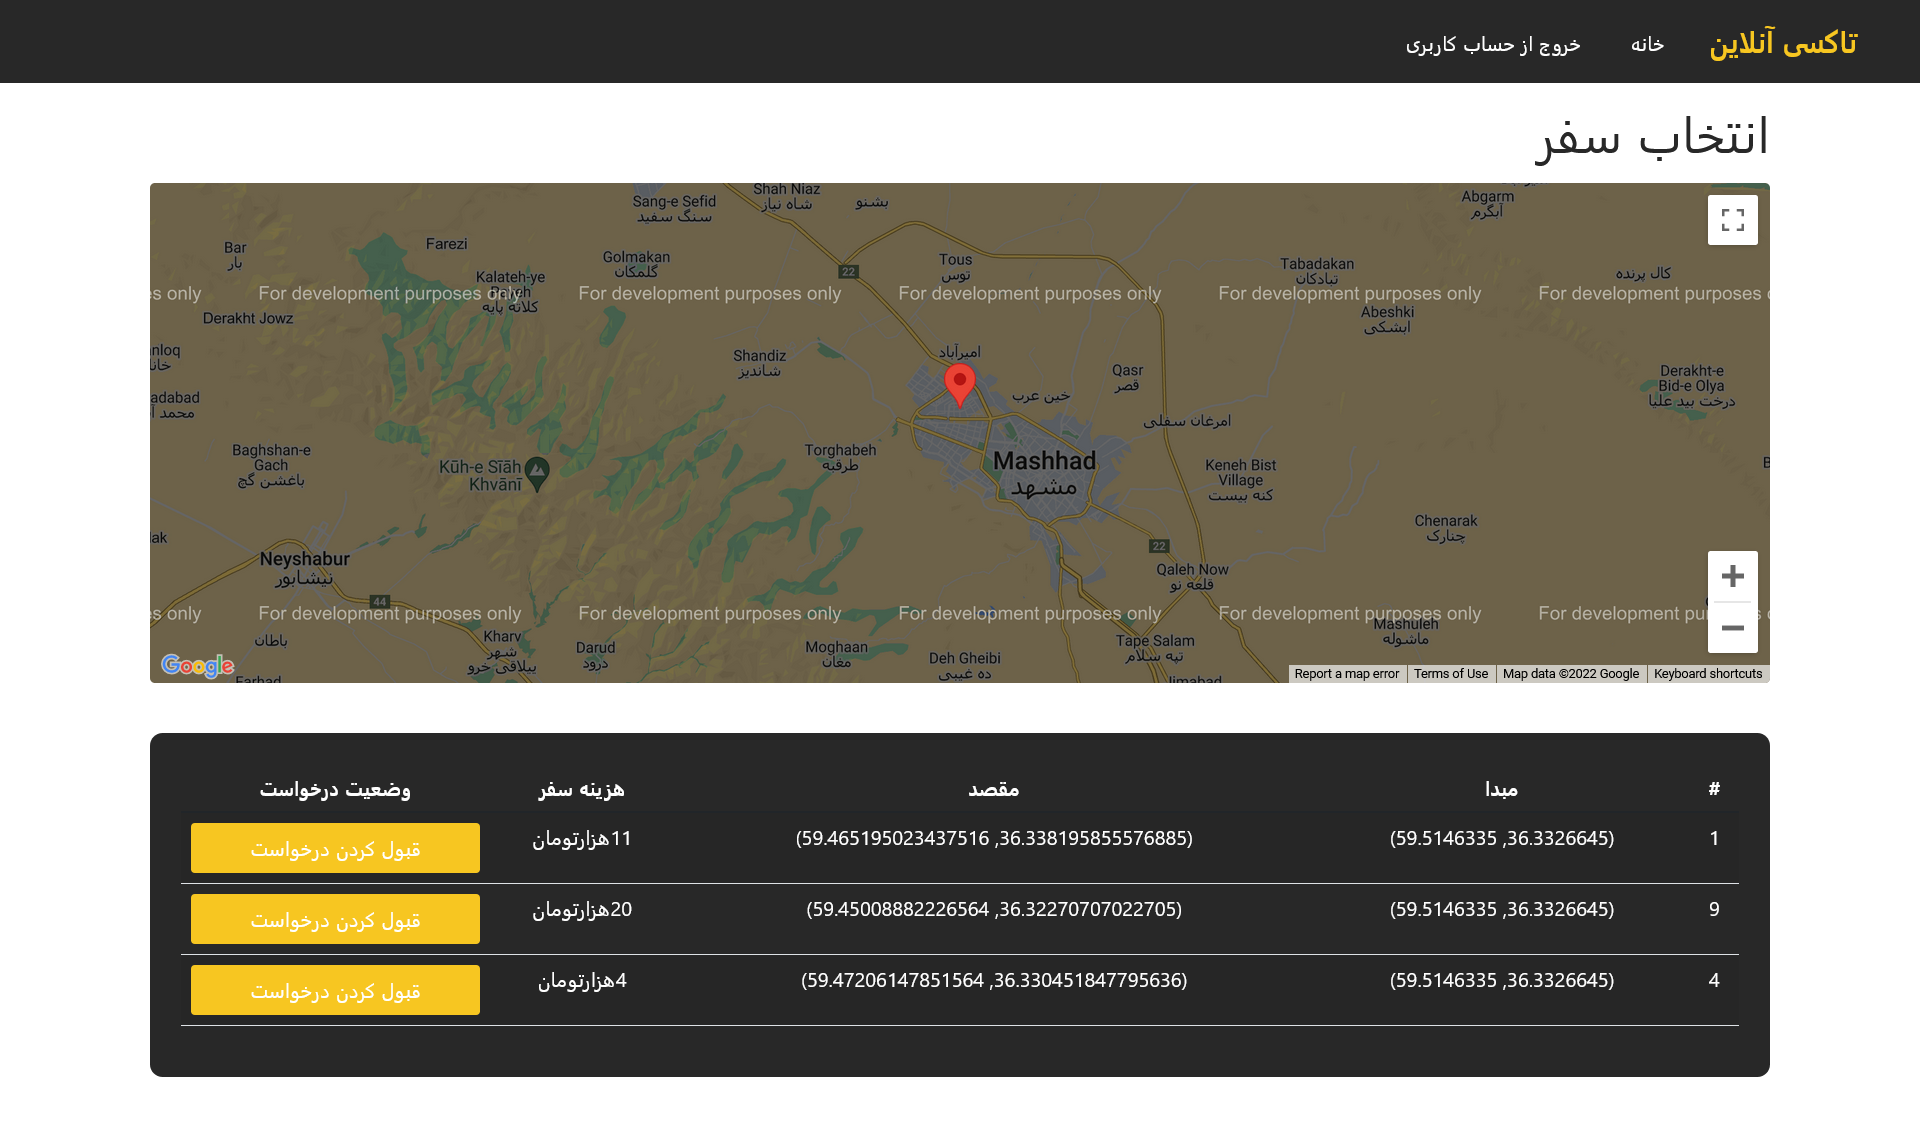
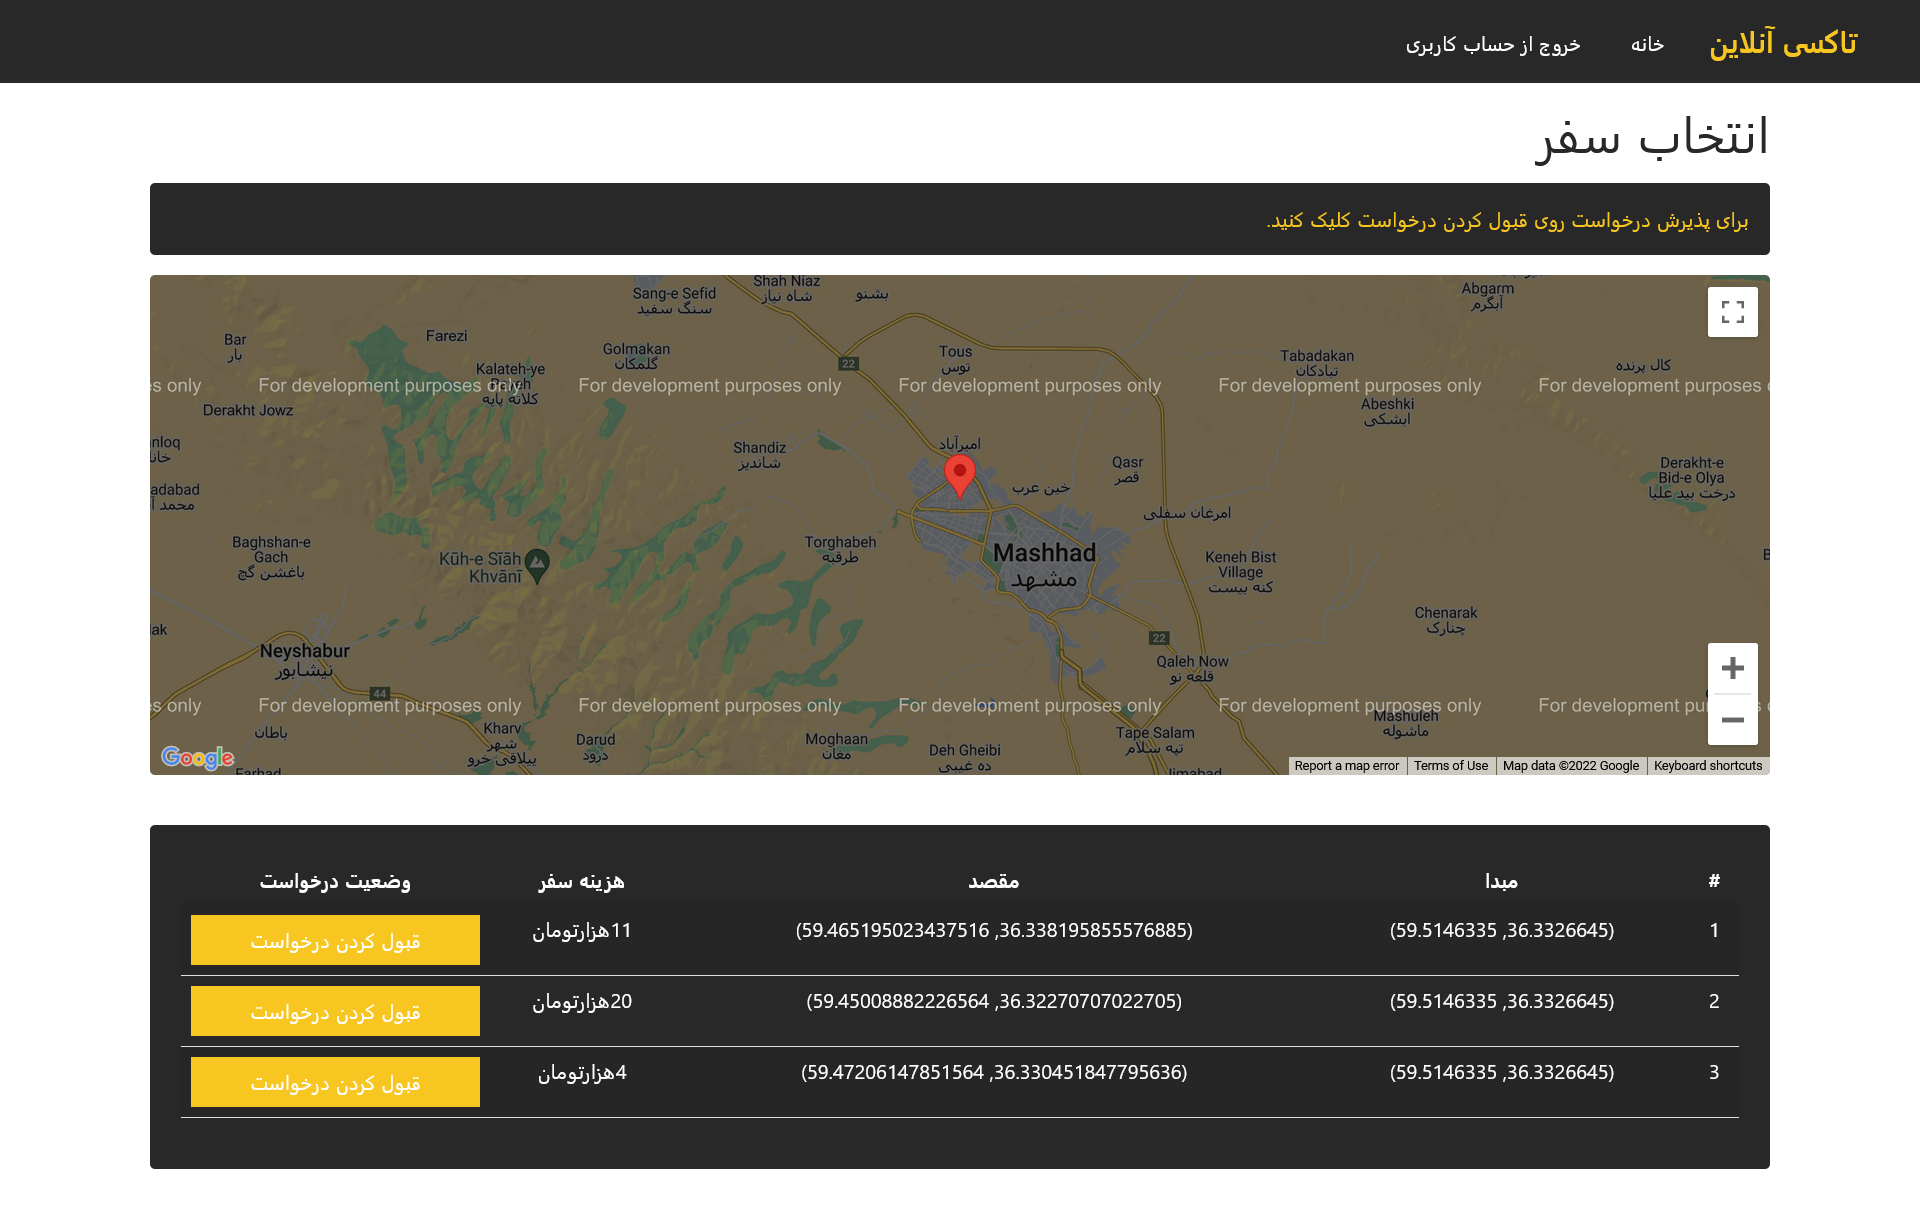
accept request: complete

diff --git a/OnlineTaxi-Miniproject/public/js/script.js b/OnlineTaxi-Miniproject/public/js/script.js
@@ -109,3 +109,25 @@ if (navigator.geolocation)
 } else {
     allert("Geolocation is not supported by this browser.");
 }
+
+function accept_request(request_id, csrf_token) {
+    var message = document.getElementById("ُmessage");
+    var json_data = {
+        request_id: request_id,
+    };
+
+    fetch("/accept-request", {
+        method: "post",
+        headers: {
+            "Content-Type": "application/json",
+            "Accept": "application/json",
+            "X-Requested-With": "XMLHttpRequest",
+            "X-CSRF-Token": csrf_token,
+        },
+        body: JSON.stringify(json_data),
+    })
+        .then(result => result.text())
+        .then(result => {
+            message.innerHTML = "درخواست شما ثبت گردید.";
+        });
+}

diff --git a/OnlineTaxi-Miniproject/resources/views/driver_profile.blade.php b/OnlineTaxi-Miniproject/resources/views/driver_profile.blade.php
@@ -3,15 +3,15 @@
 
 <div class="container mb-5">
     <h1 class="my-3" style="color: #282828;">انتخاب سفر </h1>
-    <!-- <div style="background-color: #282828; color: #f7c621;" id="ُmessage" class="alert mb-3">
-        لطفا مبدا را انتخاب کنید
-    </div> -->
+    <div style="background-color: #282828; color: #f7c621;" id="ُmessage" class="alert mb-3">
+        برای پذیرش درخواست روی قبول کردن درخواست کلیک کنید.
+    </div>
     <div id="googleMap" style="width:100%; height:400px;" class="rounded mt-3"></div>
 
     <div style="margin-top: 40px;" class="container px-0">
         <div class="row justify-content-center mx-0">
             <div class="col-md-5 col-sm-12 slider_section3 w-100 px-0 text-white">
-                <div class="slider_form2 ">
+                <div class="slider_form2 rounded">
                     <table id="tabel" class="table table-striped">
                         <thead>
                             <tr class="text-center text-white">
@@ -31,7 +31,7 @@
                                     {{ $request->id }}
                                 </th> -->
                                 <td class="text-white">
-                                    {{ $request->user_id }}
+                                    {{ $request->id }}
                                 </td>
                                 <td class="text-white">
                                     ({{ $request->lat_start }}, {{ $request->lng_start }})
@@ -44,7 +44,7 @@
                                 </td>
 
                                 <td style="text-align: center;" >
-                                    <button class="text-white" style="width: 100%; height: 40px; background-color: #f7c621; border: none; border-radius: 3px;" onclick='accept_request({{ $request->id }}, "{{ csrf_token() }}")'>
+                                    <button class="text-white" style="width: 100%; height: 40px; background-color: #f7c621; border: none;" onclick='accept_request({{ $request->id }}, "{{ csrf_token() }}")'>
                                         قبول کردن درخواست
                                     </button>
                                 </td>

diff --git a/OnlineTaxi-Miniproject/routes/web.php b/OnlineTaxi-Miniproject/routes/web.php
@@ -3,7 +3,7 @@
 use Illuminate\Support\Facades\Route;
 use App\Http\Controllers\UserController;
 use App\Http\Controllers\DriverController;
-use App\Http\Controllers\TriprController;
+use App\Http\Controllers\TripController;
 
 /*
 |--------------------------------------------------------------------------
@@ -36,7 +36,8 @@ Route::get('/logout', [UserController::class, 'logout']);
 
 Route::post('/request_taxi', [UserController::class, 'request_taxi']);
 // Route::get('/user_profile', [UserController::class, 'user_profile']);
-Route::post('/accept_request', [TripController::class, 'accept_request']);
+// Route::post('/accept_request', [TripController::class, 'accept_request']);
+Route::post('/accept-request', [TripController::class, 'accept_request']);
 
 
 Route::group(['prefix' => 'laravel-filemanager', 'middleware' => ['web', 'auth']], function () {

diff --git a/OnlineTaxi-Miniproject/app/Http/Controllers/TripController.php b/OnlineTaxi-Miniproject/app/Http/Controllers/TripController.php
@@ -3,12 +3,26 @@
 namespace App\Http\Controllers;
 
 use Illuminate\Http\Request;
+use App\Models\Taxi_request;
+use App\Models\Trip;
 
 class TripController extends Controller
 {
     //
     function accept_request(Request $request)
     {
+        // $carts = Cart::where("user_id", "=", Auth::id())->where("product_id", "=", $request["product_id"]);
+        // if($carts->count() == 0) 
+        // {
+            $trip = new Trip();
+            $trip->taxi_request_id = $request["request_id"];
+            $trip->save();
+            return "درخواست شما ثبت گردید.";
+        // }
 
+        // else 
+        // {
+        //     return "شما قبلا این کالا را به سبد خرید خود اضافه کرده اید";
+        // }
     }
 }

diff --git a/OnlineTaxi-Miniproject/app/Http/Controllers/UserController.php b/OnlineTaxi-Miniproject/app/Http/Controllers/UserController.php
@@ -70,7 +70,8 @@ class UserController extends Controller
     }
     function driver_profile()
     {
-        $drivers = User::where("role", "=", "1")->where("active", "=", "1");
+        // $drivers = User::where("role", "=", "1")->where("active", "=", "1");
+        // $requests = Taxi_request::where("accept", "=", "0");
         $requests = Taxi_request::all();
         return view("driver_profile")->with([
             "requests" => $requests,
